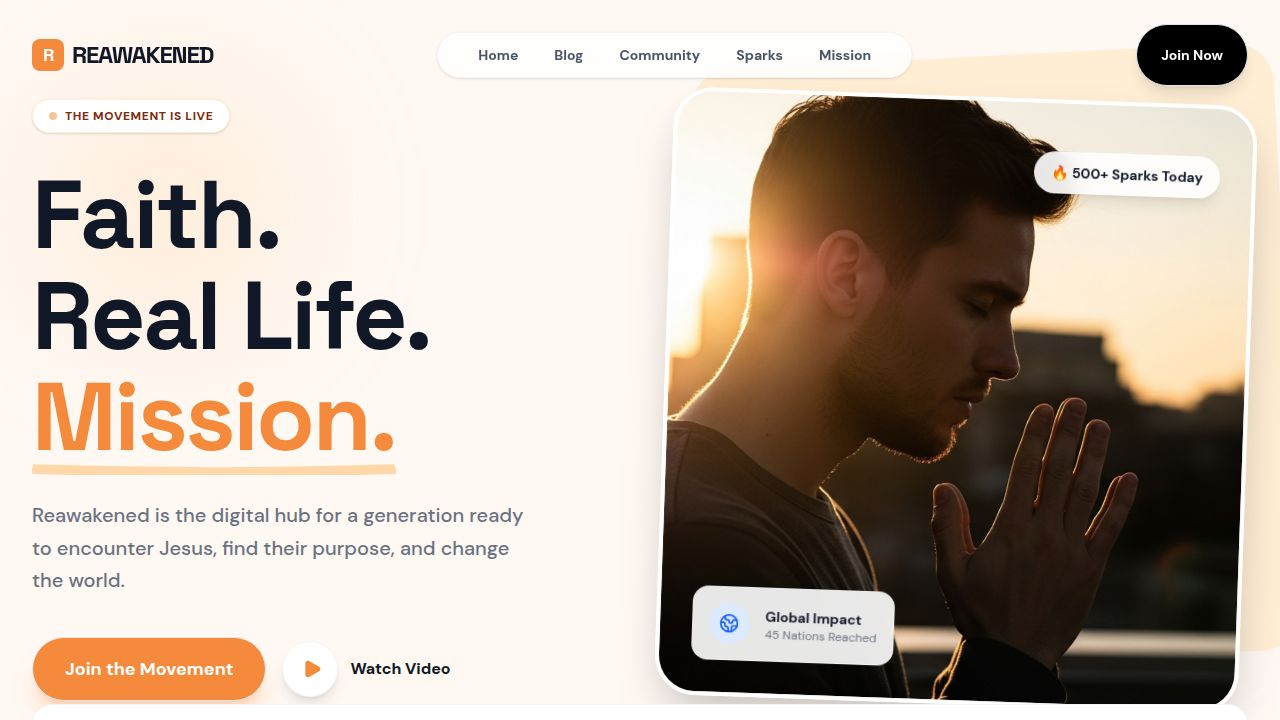
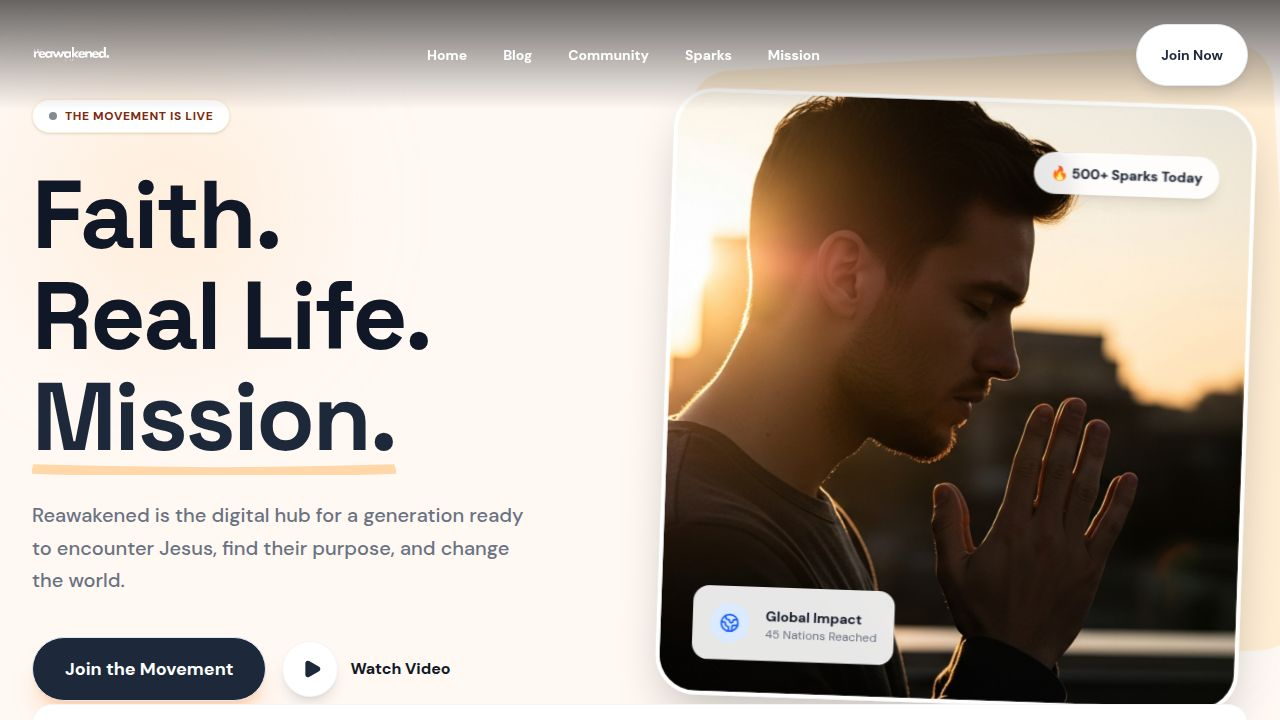
Improve navigation bar visibility with a subtle gradient overlay
Add a gradient overlay to the navigation bar to ensure text visibility against varying background images.

Replit-Commit-Author: Agent
Replit-Commit-Session-Id: c7d0516e-35f6-4570-8514-ca128c9cd4db
Replit-Commit-Checkpoint-Type: full_checkpoint
Replit-Commit-Event-Id: d5bbdd79-abda-48ec-8989-263fb75d7580
Replit-Commit-Screenshot-Url: https://storage.googleapis.com/screenshot-production-us-central1/62a174e6-3f1f-4767-a721-073335d16cbb/c7d0516e-35f6-4570-8514-ca128c9cd4db/pPbBB86
Replit-Helium-Checkpoint-Created: true

diff --git a/client/src/components/layout/Navbar.tsx b/client/src/components/layout/Navbar.tsx
@@ -35,7 +35,7 @@ export function Navbar() {
   const currentLogo = showDarkNav ? logoDark : logoLight;
 
   return (
-    <nav className={`fixed top-0 left-0 right-0 z-50 transition-all duration-300 ${scrolled ? 'bg-white/95 backdrop-blur-md shadow-sm py-4' : 'bg-transparent py-6'}`}>
+    <nav className={`fixed top-0 left-0 right-0 z-50 transition-all duration-300 ${scrolled ? 'bg-white/95 backdrop-blur-md shadow-sm py-4' : 'bg-gradient-to-b from-black/60 to-transparent py-6'}`}>
       <div className="max-w-7xl mx-auto px-4 sm:px-6 lg:px-8">
         <div className="flex items-center justify-between">
           <div className="flex-shrink-0">
